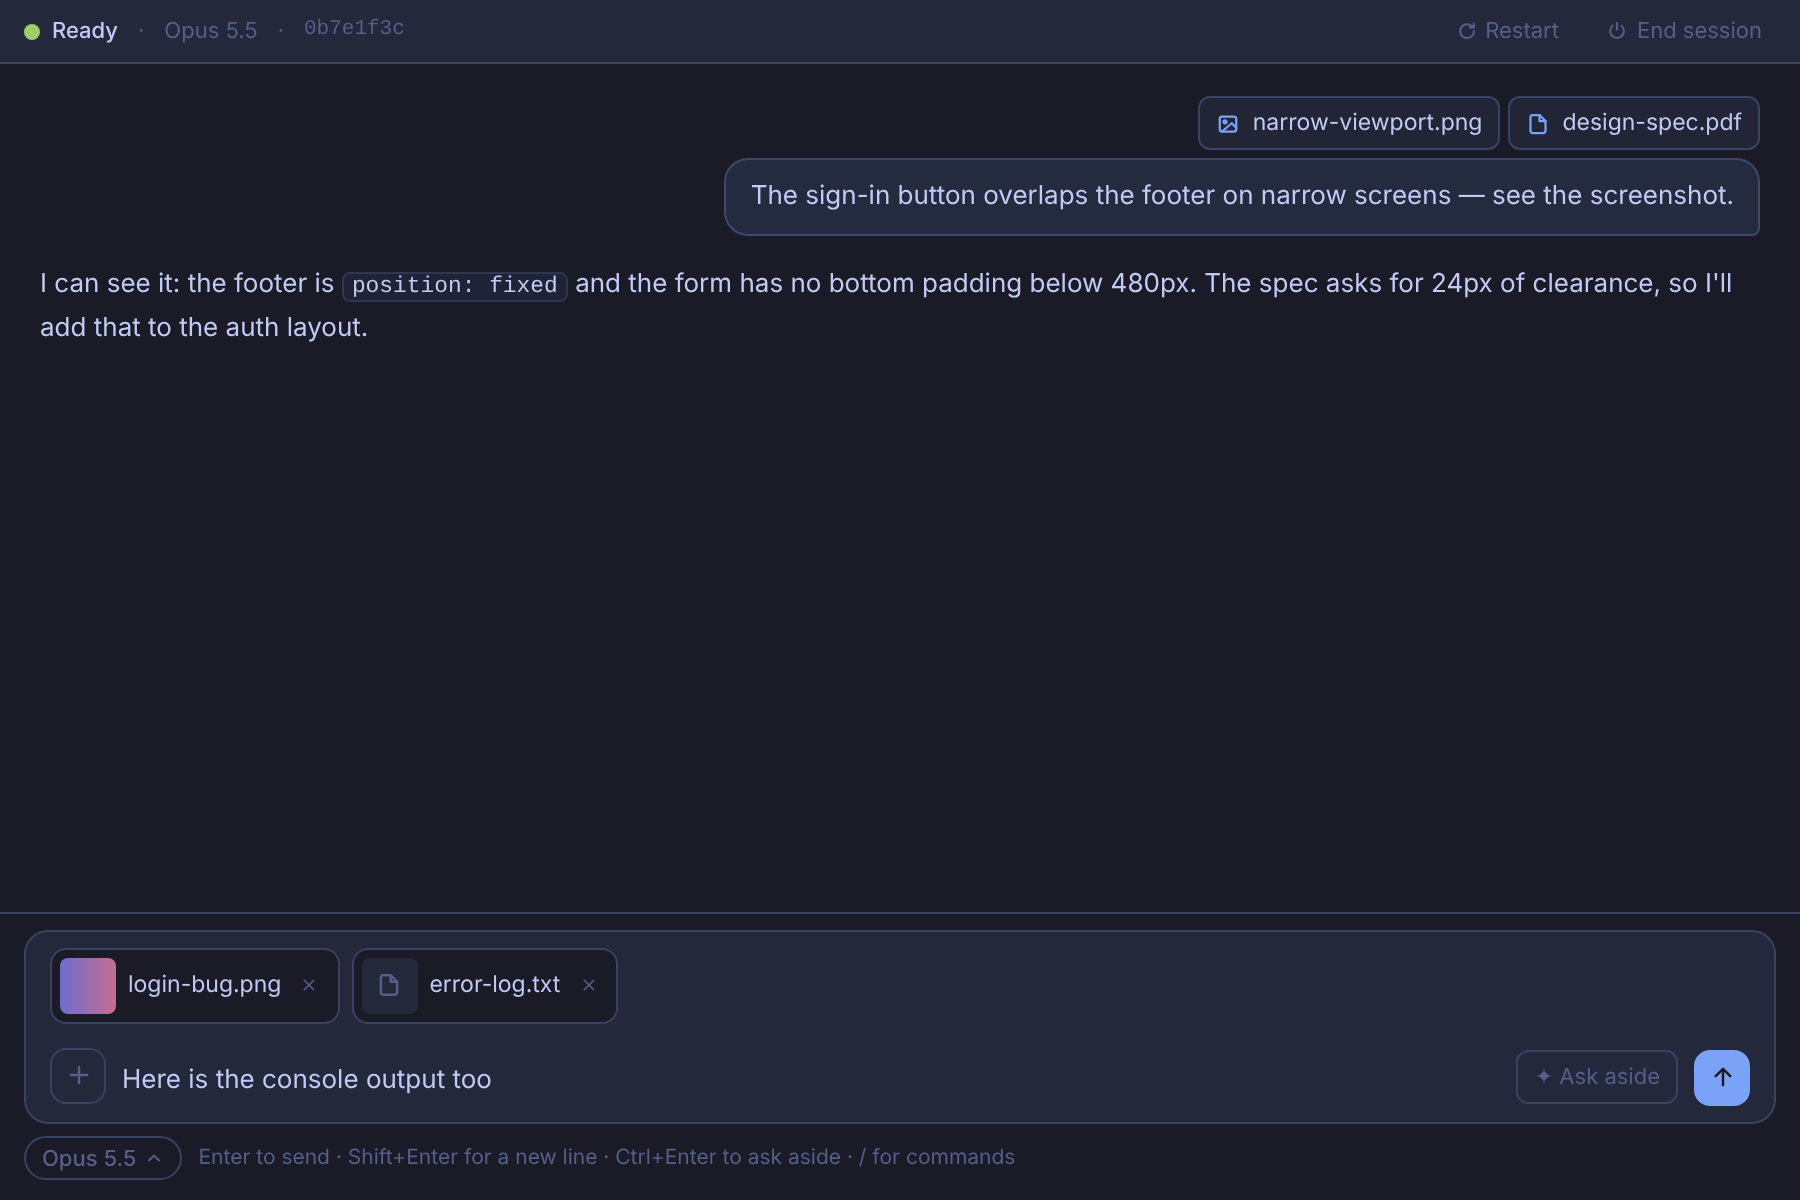
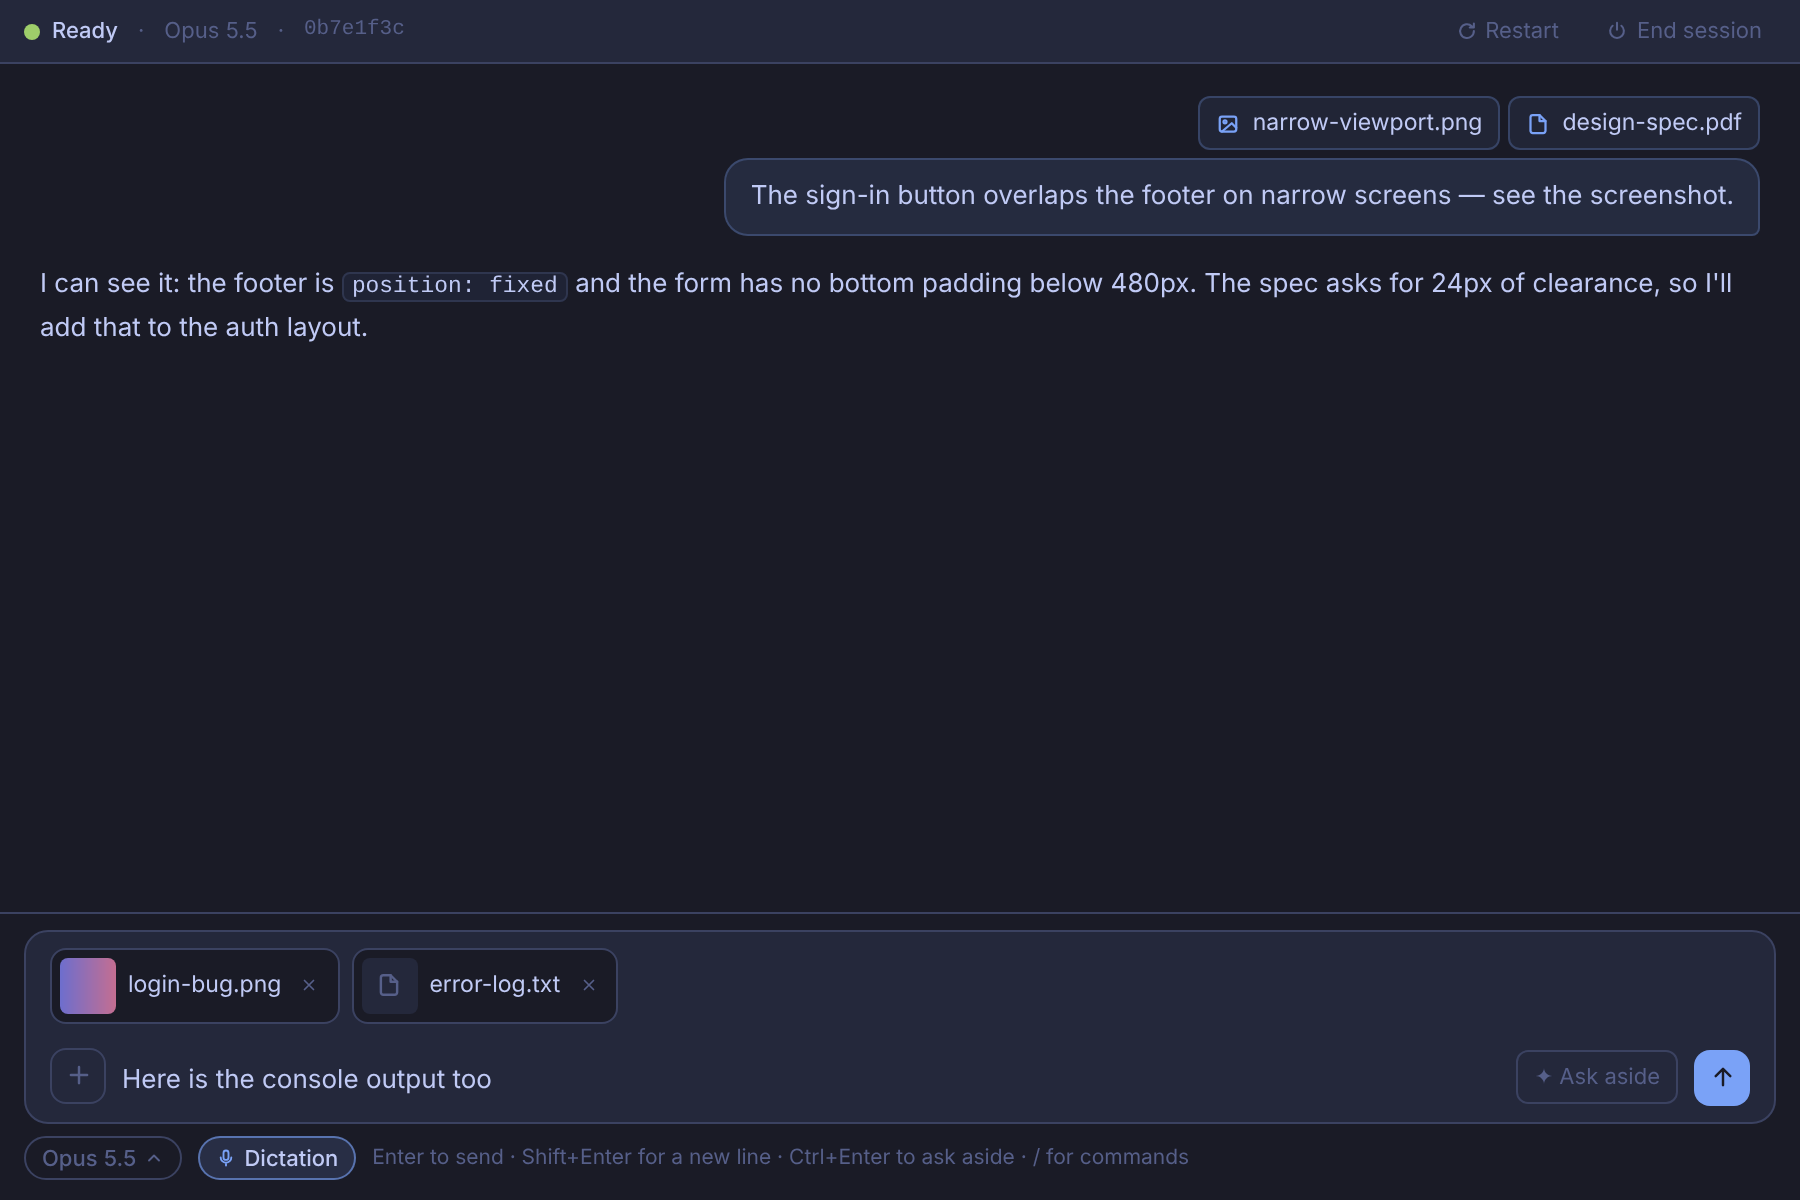
feat(visual-agent): dictation mode sends pasted text automatically
A Dictation toggle beside the model picker, on by default. While it is on,
text pasted into the composer (how dictation apps hand over what you said)
is sent straight away, as if Enter had been pressed. Off, pasted text waits
in the box for Enter or Send as before. Pasted images are still only
attached. The setting is app-wide and persisted in localStorage.

Claude-Session: https://claude.ai/code/session_01ThHXPQknXi5D1guS7tQDkb

Changed region(s): [[0.0933, 0.925, 0.56, 0.9867], [0.5911, 0.9558, 0.6533, 0.9867]]

diff --git a/src/renderer/components/visual-agent/Composer.tsx b/src/renderer/components/visual-agent/Composer.tsx
@@ -1,7 +1,8 @@
 // The composer: an autogrowing textarea with the slash menu sliding up above
 // it, the model pill and hints below it, and the panel's only filled button.
 // Files ride along as chips above the textarea: picked with the + button,
-// pasted, or dropped anywhere on the panel.
+// pasted, or dropped anywhere on the panel. In dictation mode, text pasted
+// into the box (how dictation apps hand over what you said) sends at once.
 
 import React, { forwardRef, useLayoutEffect, useRef, useState } from 'react'
 import { isInlineImage, type VisualAgentAttachment, type VisualAgentModel } from '../../../shared/visual-agent'
@@ -9,7 +10,7 @@ import { cn } from '../../lib/cn'
 import { BUILTIN_COMMANDS, intentOf, type SlashCommand } from './commands'
 import { CommandMenu, useCommandMenu } from './CommandMenu'
 import { composerKeyAction } from './composerKeys'
-import { Close, FileIcon, Plus, SendArrow, StopSquare } from './icons'
+import { Close, FileIcon, Mic, Plus, SendArrow, StopSquare } from './icons'
 import { ModelPicker, type ModelPickerHandle } from './ModelPicker'
 
 const MAX_HEIGHT = 220
@@ -40,6 +41,10 @@ export interface ComposerProps {
   onRemoveAttachment?: (index: number) => void
   /** A notice from outside (a dropped file turned away); the composer's own wins. */
   notice?: string | null
+  /** Dictation mode: pasted text is sent straight away, as if Enter were pressed. */
+  dictation?: boolean
+  /** Shows the dictation toggle beside the model pill. */
+  onDictation?: (enabled: boolean) => void
 }
 
 export const Composer = forwardRef<HTMLTextAreaElement, ComposerProps>(function Composer(
@@ -61,6 +66,8 @@ export const Composer = forwardRef<HTMLTextAreaElement, ComposerProps>(function 
     onAddFiles,
     onRemoveAttachment,
     notice: outsideNotice = null,
+    dictation = false,
+    onDictation,
   },
   ref,
 ) {
@@ -68,6 +75,8 @@ export const Composer = forwardRef<HTMLTextAreaElement, ComposerProps>(function 
   const filePicker = useRef<HTMLInputElement>(null)
   const picker = useRef<ModelPickerHandle>(null)
   const [ownNotice, setNotice] = useState<string | null>(null)
+  // Set by a text paste so the change it causes can send in dictation mode.
+  const pasted = useRef(false)
   const notice = ownNotice ?? outsideNotice
   const attaching = attachments.length > 0
 
@@ -159,9 +168,17 @@ export const Composer = forwardRef<HTMLTextAreaElement, ComposerProps>(function 
   }
 
   const onPaste = (event: React.ClipboardEvent<HTMLTextAreaElement>): void => {
-    if (!onAddFiles) return
     const files = Array.from(event.clipboardData?.files ?? [])
-    if (files.length === 0) return
+    if (files.length === 0 || !onAddFiles) {
+      if (dictation && event.clipboardData?.getData('text').trim()) {
+        pasted.current = true
+        // The input event follows in the same task; a paste that changed nothing must not linger.
+        setTimeout(() => {
+          pasted.current = false
+        })
+      }
+      return
+    }
     event.preventDefault()
     onAddFiles(files)
   }
@@ -224,6 +241,11 @@ export const Composer = forwardRef<HTMLTextAreaElement, ComposerProps>(function 
             disabled={disabled}
             onChange={(e) => {
               setNotice(null)
+              if (pasted.current) {
+                pasted.current = false
+                submit(e.target.value)
+                return
+              }
               onDraft(e.target.value)
             }}
             onKeyDown={onKeyDown}
@@ -263,6 +285,30 @@ export const Composer = forwardRef<HTMLTextAreaElement, ComposerProps>(function 
           disabled={running || disabled}
           disabledReason={running ? 'The model can be changed between turns' : 'Session is not running'}
         />
+        {onDictation ? (
+          <button
+            type="button"
+            role="switch"
+            aria-checked={dictation}
+            aria-label="Dictation mode"
+            title={
+              dictation
+                ? 'Dictation mode on: pasted text sends straight away. Click to turn off'
+                : 'Dictation mode off: pasted text waits for Enter. Click to turn on'
+            }
+            onClick={() => onDictation(!dictation)}
+            className={cn(
+              'inline-flex shrink-0 items-center gap-1 rounded-full border px-2! py-[2px]! text-[11px] transition-colors',
+              'focus:outline-none focus-visible:ring-2 focus-visible:ring-accent',
+              dictation
+                ? 'border-accent/60 bg-accent/15 text-text'
+                : 'border-border text-text-muted hover:border-accent/50 hover:text-text',
+            )}
+          >
+            <Mic size={10} className={dictation ? 'text-accent' : undefined} />
+            <span className="font-medium">Dictation</span>
+          </button>
+        ) : null}
         {notice ? (
           <span role="status" className="text-warning">
             {notice}

diff --git a/tests/unit/components/visual-agent/visual-agent-composer.test.tsx b/tests/unit/components/visual-agent/visual-agent-composer.test.tsx
@@ -222,3 +222,71 @@ describe('<Composer>', () => {
     expect(screen.queryByRole('button', { name: 'Attach files' })).toBeNull()
   })
 })
+
+describe('<Composer> dictation mode', () => {
+  const pasteText = (box: HTMLElement, text: string, value: string): void => {
+    fireEvent.paste(box, { clipboardData: { files: [], getData: () => text } })
+    fireEvent.change(box, { target: { value } })
+  }
+
+  it('sends pasted text straight away when on', () => {
+    const onSend = vi.fn()
+    render(<Harness dictation onDictation={vi.fn()} onSend={onSend} onAddFiles={vi.fn()} />)
+    const box = screen.getByLabelText('Message Claude') as HTMLTextAreaElement
+    pasteText(box, 'fix the build', 'fix the build')
+    expect(onSend).toHaveBeenCalledWith('fix the build', [])
+    expect(box.value).toBe('')
+  })
+
+  it('sends the whole draft, including what was typed before the paste', () => {
+    const onSend = vi.fn()
+    render(<Harness initial="please " dictation onSend={onSend} />)
+    pasteText(screen.getByLabelText('Message Claude'), 'run the tests', 'please run the tests')
+    expect(onSend).toHaveBeenCalledWith('please run the tests', [])
+  })
+
+  it('leaves pasted text in the box when off', () => {
+    const onSend = vi.fn()
+    render(<Harness dictation={false} onDictation={vi.fn()} onSend={onSend} />)
+    const box = screen.getByLabelText('Message Claude') as HTMLTextAreaElement
+    pasteText(box, 'fix the build', 'fix the build')
+    expect(onSend).not.toHaveBeenCalled()
+    expect(box.value).toBe('fix the build')
+  })
+
+  it('only sends for a paste: typing still waits for Enter', () => {
+    const onSend = vi.fn()
+    render(<Harness dictation onSend={onSend} />)
+    const box = screen.getByLabelText('Message Claude') as HTMLTextAreaElement
+    fireEvent.change(box, { target: { value: 'h' } })
+    expect(onSend).not.toHaveBeenCalled()
+    expect(box.value).toBe('h')
+  })
+
+  it('a pasted image is still just attached', () => {
+    const onSend = vi.fn()
+    const onAddFiles = vi.fn()
+    render(<Harness dictation onSend={onSend} onAddFiles={onAddFiles} />)
+    const file = new File(['png'], 'image.png', { type: 'image/png' })
+    fireEvent.paste(screen.getByLabelText('Message Claude'), { clipboardData: { files: [file], getData: () => '' } })
+    expect(onAddFiles).toHaveBeenCalledWith([file])
+    expect(onSend).not.toHaveBeenCalled()
+  })
+
+  it('the toggle shows its state and flips it', () => {
+    const onDictation = vi.fn()
+    const { rerender } = render(<Harness dictation onDictation={onDictation} />)
+    const toggle = screen.getByRole('switch', { name: 'Dictation mode' })
+    expect(toggle).toHaveAttribute('aria-checked', 'true')
+    fireEvent.click(toggle)
+    expect(onDictation).toHaveBeenCalledWith(false)
+    rerender(<Harness dictation={false} onDictation={onDictation} />)
+    fireEvent.click(screen.getByRole('switch', { name: 'Dictation mode' }))
+    expect(onDictation).toHaveBeenLastCalledWith(true)
+  })
+
+  it('has no toggle when the owner does not offer one', () => {
+    render(<Harness />)
+    expect(screen.queryByRole('switch', { name: 'Dictation mode' })).toBeNull()
+  })
+})

diff --git a/tests/unit/stores/dictationStore.test.ts b/tests/unit/stores/dictationStore.test.ts
@@ -1,0 +1,38 @@
+import { beforeEach, describe, expect, it, vi } from 'vitest'
+
+const STORAGE_KEY = 'codecrucible-dictation-mode'
+
+async function freshStore() {
+  vi.resetModules()
+  const mod = await import('../../../src/renderer/stores/dictationStore')
+  return mod.useDictationStore
+}
+
+beforeEach(() => {
+  localStorage.clear()
+})
+
+describe('dictationStore', () => {
+  it('is on by default', async () => {
+    const store = await freshStore()
+    expect(store.getState().enabled).toBe(true)
+  })
+
+  it('persists turning it off and back on', async () => {
+    let store = await freshStore()
+    store.getState().toggle()
+    expect(store.getState().enabled).toBe(false)
+    expect(localStorage.getItem(STORAGE_KEY)).toBe('false')
+    store = await freshStore()
+    expect(store.getState().enabled).toBe(false)
+    store.getState().setEnabled(true)
+    store = await freshStore()
+    expect(store.getState().enabled).toBe(true)
+  })
+
+  it('falls back to on when the stored value is unreadable', async () => {
+    localStorage.setItem(STORAGE_KEY, '{nope')
+    const store = await freshStore()
+    expect(store.getState().enabled).toBe(true)
+  })
+})

diff --git a/src/renderer/components/visual-agent/VisualAgentPanel.tsx b/src/renderer/components/visual-agent/VisualAgentPanel.tsx
@@ -15,6 +15,7 @@ import type {
   VisualAgentStartOptions,
 } from '../../../shared/visual-agent'
 import { cn } from '../../lib/cn'
+import { useDictationStore } from '../../stores/dictationStore'
 import {
   EMPTY_VISUAL_AGENT_UI,
   emptySnapshot,
@@ -205,6 +206,8 @@ export function VisualAgentPanel({ agentId, startOptions, visible }: VisualAgent
   const stored = useVisualAgentStore((s) => s.agents[agentId])
   const ui = useVisualAgentStore((s) => s.ui[agentId]) ?? EMPTY_VISUAL_AGENT_UI
   const error = useVisualAgentStore((s) => s.errors[agentId] ?? null)
+  const dictation = useDictationStore((s) => s.enabled)
+  const setDictation = useDictationStore((s) => s.setEnabled)
   const actions = useVisualAgentStore.getState()
 
   const snap = useMemo(
@@ -492,6 +495,8 @@ export function VisualAgentPanel({ agentId, startOptions, visible }: VisualAgent
           onInterrupt={() => void actions.interrupt(agentId)}
           onClear={() => void actions.restart(agentId, true)}
           commands={commands}
+          dictation={dictation}
+          onDictation={setDictation}
         />
       </div>
 

diff --git a/src/renderer/stores/dictationStore.ts b/src/renderer/stores/dictationStore.ts
@@ -1,0 +1,36 @@
+// Dictation mode for visual agents: when on, text pasted into the composer
+// (which is how dictation apps hand over what you said) is sent straight away,
+// as if Enter had been pressed. One app-wide switch, on by default.
+
+import { create } from 'zustand'
+
+const STORAGE_KEY = 'codecrucible-dictation-mode'
+
+function load(): boolean {
+  try {
+    const raw = localStorage.getItem(STORAGE_KEY)
+    if (raw !== null) return JSON.parse(raw) !== false
+  } catch { /* ignore */ }
+  return true
+}
+
+function save(enabled: boolean) {
+  try {
+    localStorage.setItem(STORAGE_KEY, JSON.stringify(enabled))
+  } catch { /* ignore */ }
+}
+
+interface DictationState {
+  enabled: boolean
+  setEnabled: (enabled: boolean) => void
+  toggle: () => void
+}
+
+export const useDictationStore = create<DictationState>((set, get) => ({
+  enabled: load(),
+  setEnabled: (enabled) => {
+    save(enabled)
+    set({ enabled })
+  },
+  toggle: () => get().setEnabled(!get().enabled),
+}))

diff --git a/src/renderer/components/visual-agent/icons.tsx b/src/renderer/components/visual-agent/icons.tsx
@@ -105,7 +105,14 @@ export const Plus = ({ size = 12, className }: IconProps) => (
   </svg>
 )
 
-export const FileIcon = ({ size = 12, className }: IconProps) => (
+export const Mic = ({ size = 12, className }: IconProps) => (
+  <svg {...base(size, className)}>
+    <rect x="6" y="2" width="4" height="7.5" rx="2" />
+    <path d="M3.75 7.5a4.25 4.25 0 008.5 0M8 11.75V14" />
+  </svg>
+)
+
+export const FileIcon =({ size = 12, className }: IconProps) => (
   <svg {...base(size, className)}>
     <path d="M9 2H4.5A1.5 1.5 0 003 3.5v9A1.5 1.5 0 004.5 14h7a1.5 1.5 0 001.5-1.5V6L9 2z" />
     <path d="M9 2v4h4" />

diff --git a/scripts/capture-screenshots.ts b/scripts/capture-screenshots.ts
@@ -401,6 +401,12 @@ const targets: ScreenshotTarget[] = [
     delay: 1500,
   },
   {
+    name: 'visual-agent-dictation',
+    storyId: 'visual-agent-visualagentpanel--conversation',
+    viewport: { width: 900, height: 600 },
+    delay: 1500,
+  },
+  {
     name: 'visual-agent-add-tab',
     storyId: 'app-full-layout--visual-agent',
     delay: 2500,

diff --git a/README.md b/README.md
@@ -314,6 +314,9 @@ The agent interface: a chat UI for Claude Code, driven over `claude -p --input-f
 
   ![Attachments in the composer](docs/screenshots/visual-agent-attachments.png)
 - **Model picker** — Choose Opus, Fable, Sonnet or Haiku below the composer (or with `/model`); switching mid-conversation keeps the conversation
+- **Dictation mode** — The **Dictation** toggle beside the model picker (on by default) sends text pasted into the composer straight away, as if you had pressed Enter, so a dictation app that pastes what you said sends it hands-free. It sends the whole draft, including anything typed before the paste; pasted images are still just attached. Turn it off to have pasted text wait for Enter or **Send**. The setting applies to every agent and is remembered across restarts
+
+  ![Dictation toggle beside the model picker](docs/screenshots/visual-agent-dictation.png)
 - **Tool cards** — Each tool call is a card: edits render as syntax-highlighted diffs, Bash shows the command and its output, reads and searches collapse into a one-line summary you can expand
 - **Permission and question cards** — When Claude needs approval (or asks a question with options) the card appears inline with Allow / Always allow / Deny, and the status bar switches to **Needs you**
 - **Sub-agents** — Tasks Claude spawns appear in a tray above the composer; click one to open its full thread in a sheet that slides in from the right
